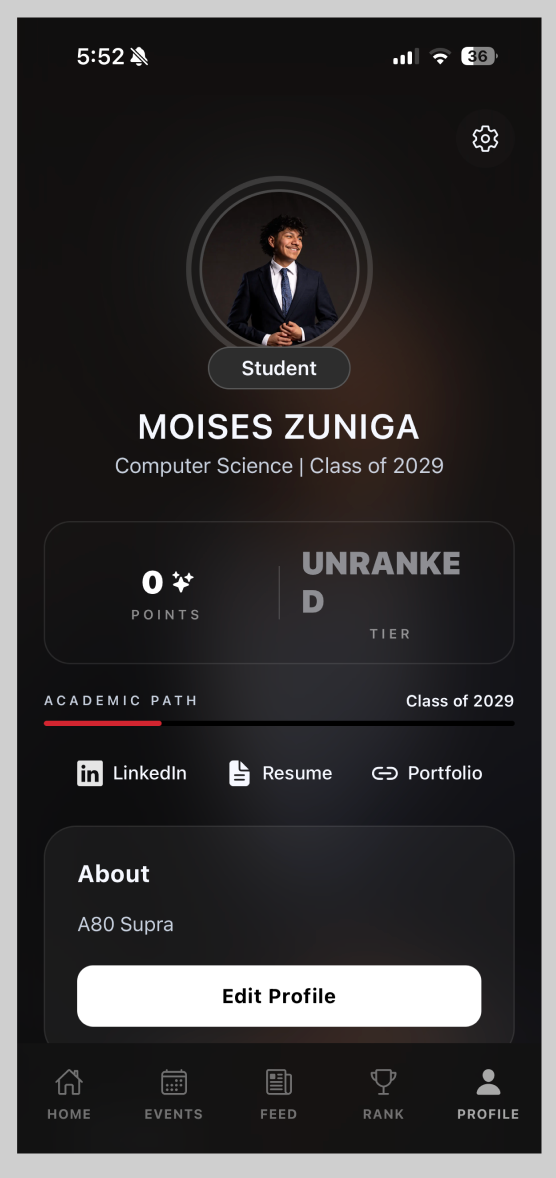
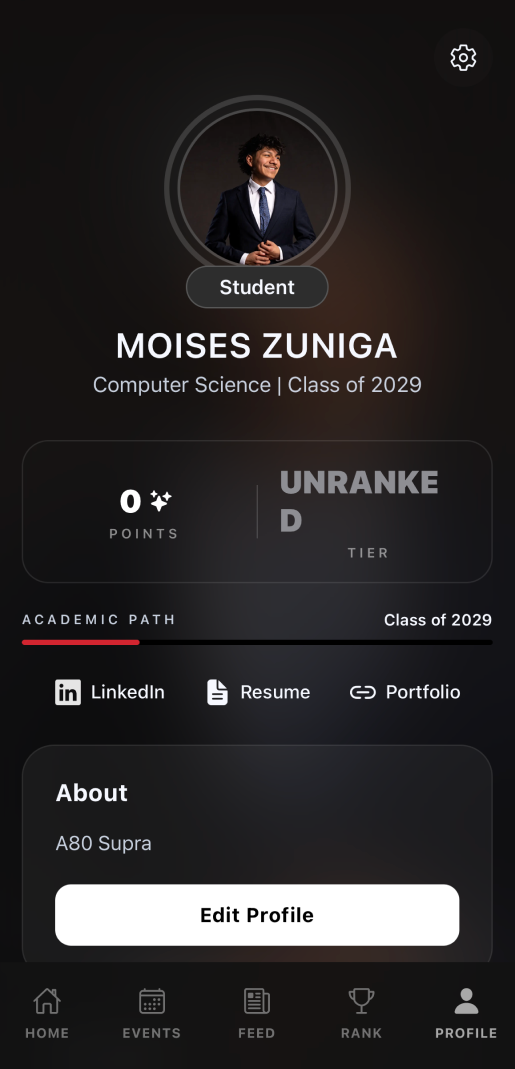
Replace SHPE carousel screenshots

diff --git a/src/components/ShpeLiveCarousel.tsx b/src/components/ShpeLiveCarousel.tsx
@@ -6,38 +6,38 @@ import { useState } from "react";
 const shpeLiveScreens = [
   {
     alt: "SHPE NJIT app home screen with quick actions, announcements, and community highlights.",
-    height: 2556,
+    height: 2401,
     label: "Home",
     src: "/images/shpe/live/home.png",
     width: 1179,
   },
   {
     alt: "SHPE NJIT app events screen showing the September event calendar state.",
-    height: 1252,
+    height: 1208,
     label: "Events",
     src: "/images/shpe/live/events.png",
-    width: 600,
+    width: 553,
   },
   {
     alt: "SHPE NJIT app rank screen with semester ranking filters and an empty rankings state.",
-    height: 2556,
+    height: 2418,
     label: "Rank",
     src: "/images/shpe/live/rank.png",
     width: 1179,
   },
   {
     alt: "SHPE NJIT app profile screen with student details, links, and edit profile action.",
-    height: 1178,
+    height: 1069,
     label: "Profile",
     src: "/images/shpe/live/profile.png",
-    width: 556,
+    width: 515,
   },
   {
     alt: "SHPE NJIT app settings screen with account settings, preferences, and resources.",
-    height: 1470,
+    height: 1356,
     label: "Settings",
     src: "/images/shpe/live/settings.png",
-    width: 552,
+    width: 500,
   },
 ];
 
